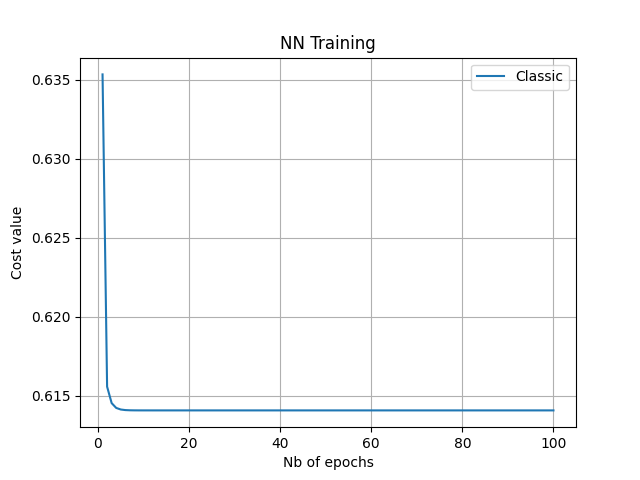
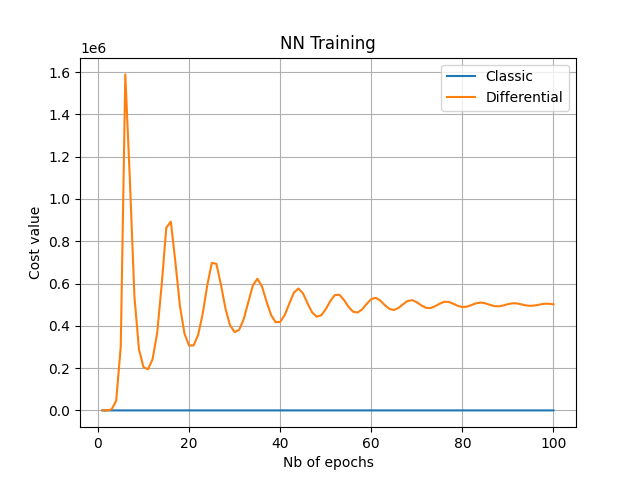
Added Differential Training

diff --git a/nn_class.py b/nn_class.py
@@ -47,45 +47,63 @@ class Twin_Network(nn.Module):
 
     def predict_price(self, X, X_mean, X_std, Y_mean, Y_std):
         # Forward Propagation
-        X_norm = torch.div(torch.tensor(X) - X_mean, X_std)
+        X_norm = torch.div(torch.tensor([X]) - X_mean, X_std)
         Y_norm = self.forward(X_norm)
         Y = Y_norm * Y_std + Y_mean
         return Y
 
     def predict_price_and_diffs(self, X, X_mean, X_std, Y_mean, Y_std, dYdX_mean, dYdX_std):
         # Forward Propagation
-        X_norm = torch.div(torch.tensor(X) - X_mean, X_std)
+        X_norm = torch.div(torch.tensor([X]) - X_mean, X_std)
         Y_norm = self.forward(X_norm)
         Y = Y_norm * Y_std + Y_mean
         # Backward Propagation
-        torch.autograd.grad(Y, torch.tensor(X), retain_graph=True)
+        torch.autograd.grad(Y, torch.tensor([X]), retain_graph=True)
         Y.backward()
         dYdX_norm = X.grad
         dYdX = dYdX_norm * dYdX_std + dYdX_mean
         return Y, dYdX
 
 
+def MSE_standard(model, X_norm, Y_norm):
+    loss = torch.tensor(0.0)
+    for x, y in zip(X_norm, Y_norm):
+        x = torch.tensor([x])
+        y_pred = model(x)[0]
+        loss += torch.div(torch.square(y_pred - y), len(X_norm))
+    return loss
+
+
+def MSE_differential(model, X_norm, Y_norm, dYdX_norm, lambda_j, alpha):
+    loss = alpha * MSE_standard(model, X_norm, Y_norm)
+    if alpha != 1:
+        for x, z in zip(X_norm, dYdX_norm):
+            x = torch.tensor([x], requires_grad=True)
+            y_pred = model(x)
+            y_pred.backward()
+            z_pred = x.grad.clone()[0]
+            loss += torch.div(torch.square(z_pred - z), len(X_norm)) * lambda_j * (1 - alpha)
+    return loss
+
+
 def training(model, X_norm, Y_norm, nb_epochs, dYdX_norm=None, lambda_j=None):
-    # Variables Initialization
-    loss = None
-    if dYdX_norm:
+    # Cost Function
+    if dYdX_norm is None:
+        alpha = 1
+    else:
         alpha = 1 / (1 + model.nb_inputs)
     # Cost Function
-    criterion = nn.MSELoss()
+    criterion = MSE_differential
     # Optimizer
     optimizer = optim.Adam(params=model.parameters(), lr=0.1)
     # Optimization Loop
     for i in range(0, nb_epochs):
-        cost_value = 0
-        for x, y in zip(X_norm, Y_norm):
-            # Forward + Loss
-            optimizer.zero_grad()
-            loss = criterion(model(torch.tensor([x])), torch.tensor([y]))
-            # Update Weights
-            loss.backward()
-            optimizer.step()
-            # Update Cost
-            cost_value += loss.item()
+        optimizer.zero_grad()
+        loss = criterion(model, X_norm, Y_norm, dYdX_norm, lambda_j, alpha)
+        # Update Weights
+        loss.backward()
+        optimizer.step()
         # Store Cost Value
-        model.cost_values.append(cost_value)
+        model.cost_values.append(loss.item())
+        print(i+1, " - ", loss.item())
     return model

diff --git a/deep_learning_functions.py b/deep_learning_functions.py
@@ -34,7 +34,7 @@ def GeneratePathsHestonEuler(S0: float, v0: float, risk_free_rate: float, maturi
         v_it = torch.maximum(v_it + kappa * (theta - v_it) * dt + sigma * torch.sqrt(v_it * dt) * rdn[:, 1], torch.tensor(0))
         S = torch.cat((S, S_it), 0)
     S = S.view(nb_steps + 1, nb_simuls)
-    return S.T.to(dtype=torch.float32)
+    return S.T
 
 
 def Payoff(strike: float, barrier: float, S: np.array):
@@ -293,7 +293,7 @@ def normalize_data(X: list, Y: list, dYdX: list):
     X_norm = torch.div(X - X_mean, X_std)
     Y_mean = torch.mean(Y)
     Y_std = torch.std(Y)
-    Y_norm = (Y - Y_mean) / Y_std
+    Y_norm = torch.div(Y - Y_mean, Y_std)
     dYdX_mean = torch.mean(dYdX)
     dYdX_std = torch.std(dYdX)
     dYdX_norm = torch.div(dYdX - dYdX_mean, dYdX_std)

diff --git a/nn_main.py b/nn_main.py
@@ -41,9 +41,13 @@ classic_nn = Twin_Network(nb_inputs=1, nb_hidden_layer=nb_hidden_layers, nb_neur
 classic_nn = training(model=classic_nn, X_norm=X_norm, Y_norm=Y_norm, nb_epochs=nb_epochs)
 
 # Differential Neural Network
+differential_nn = Twin_Network(nb_inputs=1, nb_hidden_layer=nb_hidden_layers, nb_neurones=nb_neurones, seed=seed)
+differential_nn = training(model=differential_nn, X_norm=X_norm, Y_norm=Y_norm, nb_epochs=nb_epochs,
+                           dYdX_norm=dYdX_norm, lambda_j=lambda_j)
 
 # Plot Cost Values
 plt.plot(range(1, nb_epochs+1), classic_nn.cost_values, label="Classic")
+plt.plot(range(1, nb_epochs+1), differential_nn.cost_values, label="Differential")
 plt.xlabel("Nb of epochs")
 plt.ylabel("Cost value")
 plt.title("NN Training")
